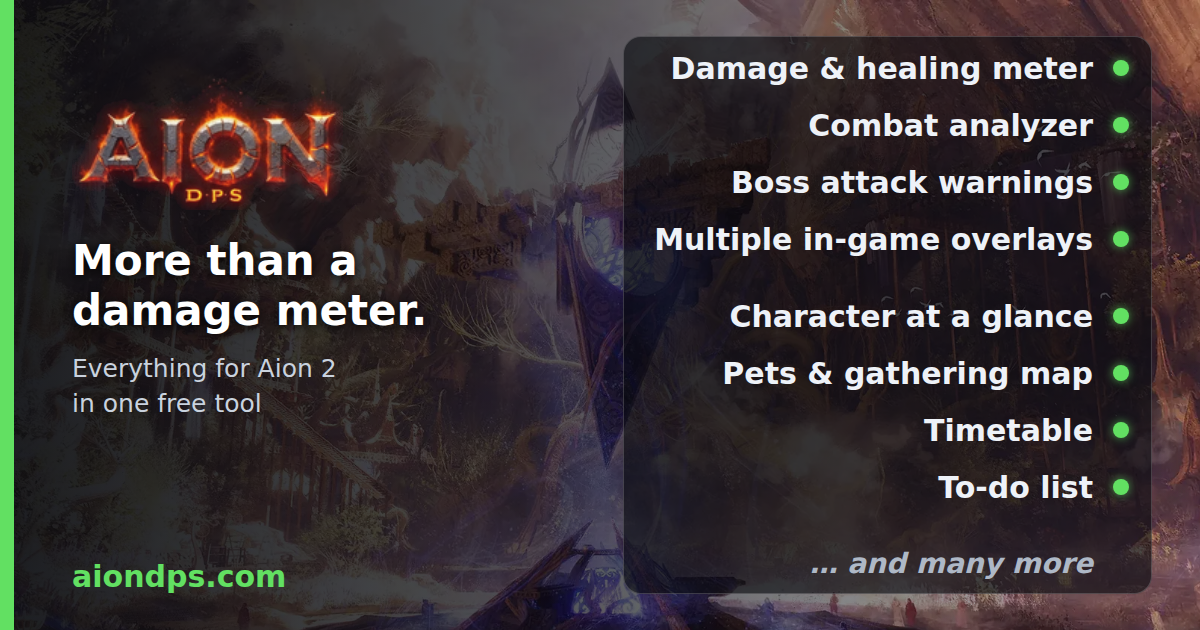
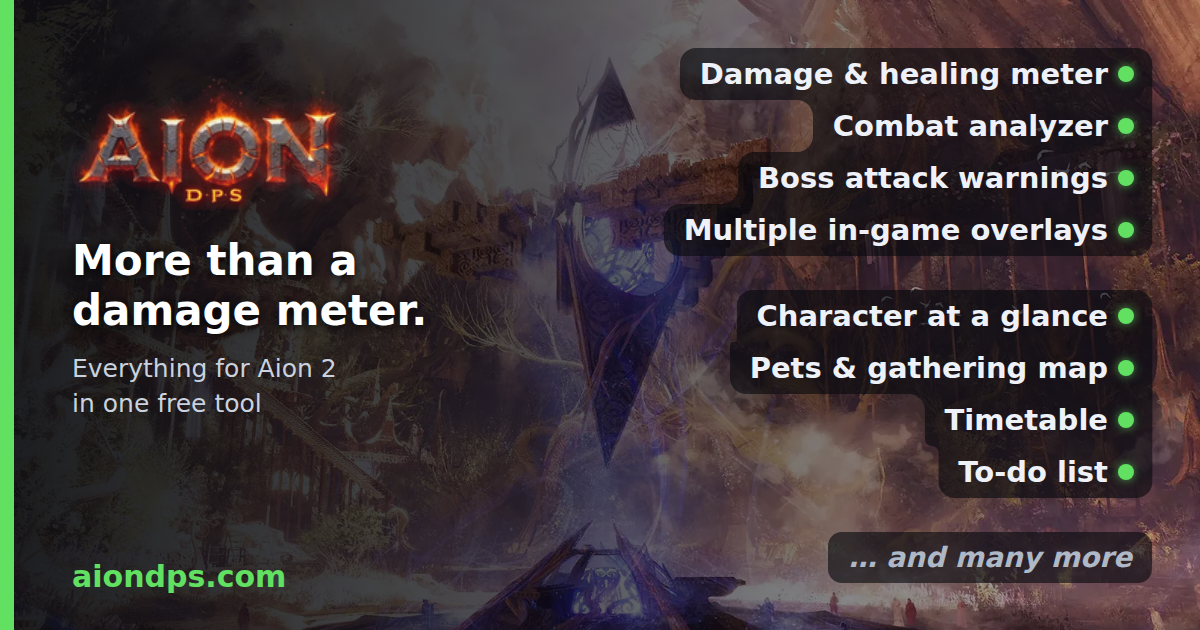
Link preview picture: each list group is one shape with flowing rounded steps

Changed region(s): [[0.4933, 0.0302, 0.9867, 0.9651]]

diff --git a/Backend/src/seo/meta.ts b/Backend/src/seo/meta.ts
@@ -4,7 +4,7 @@ import { escapeHtml } from "./html.js";
 export const SITE_NAME = "Aion DPS";
 // ?v= busts Discord/Slack/etc link-preview caches, which key on the exact image URL and otherwise
 // keep showing a stale image indefinitely. Bump it whenever og/default.png changes.
-export const DEFAULT_OG_IMAGE = "/og/default.png?v=20261018d";
+export const DEFAULT_OG_IMAGE = "/og/default.png?v=20261018e";
 
 export interface PageMeta {
   title: string;
